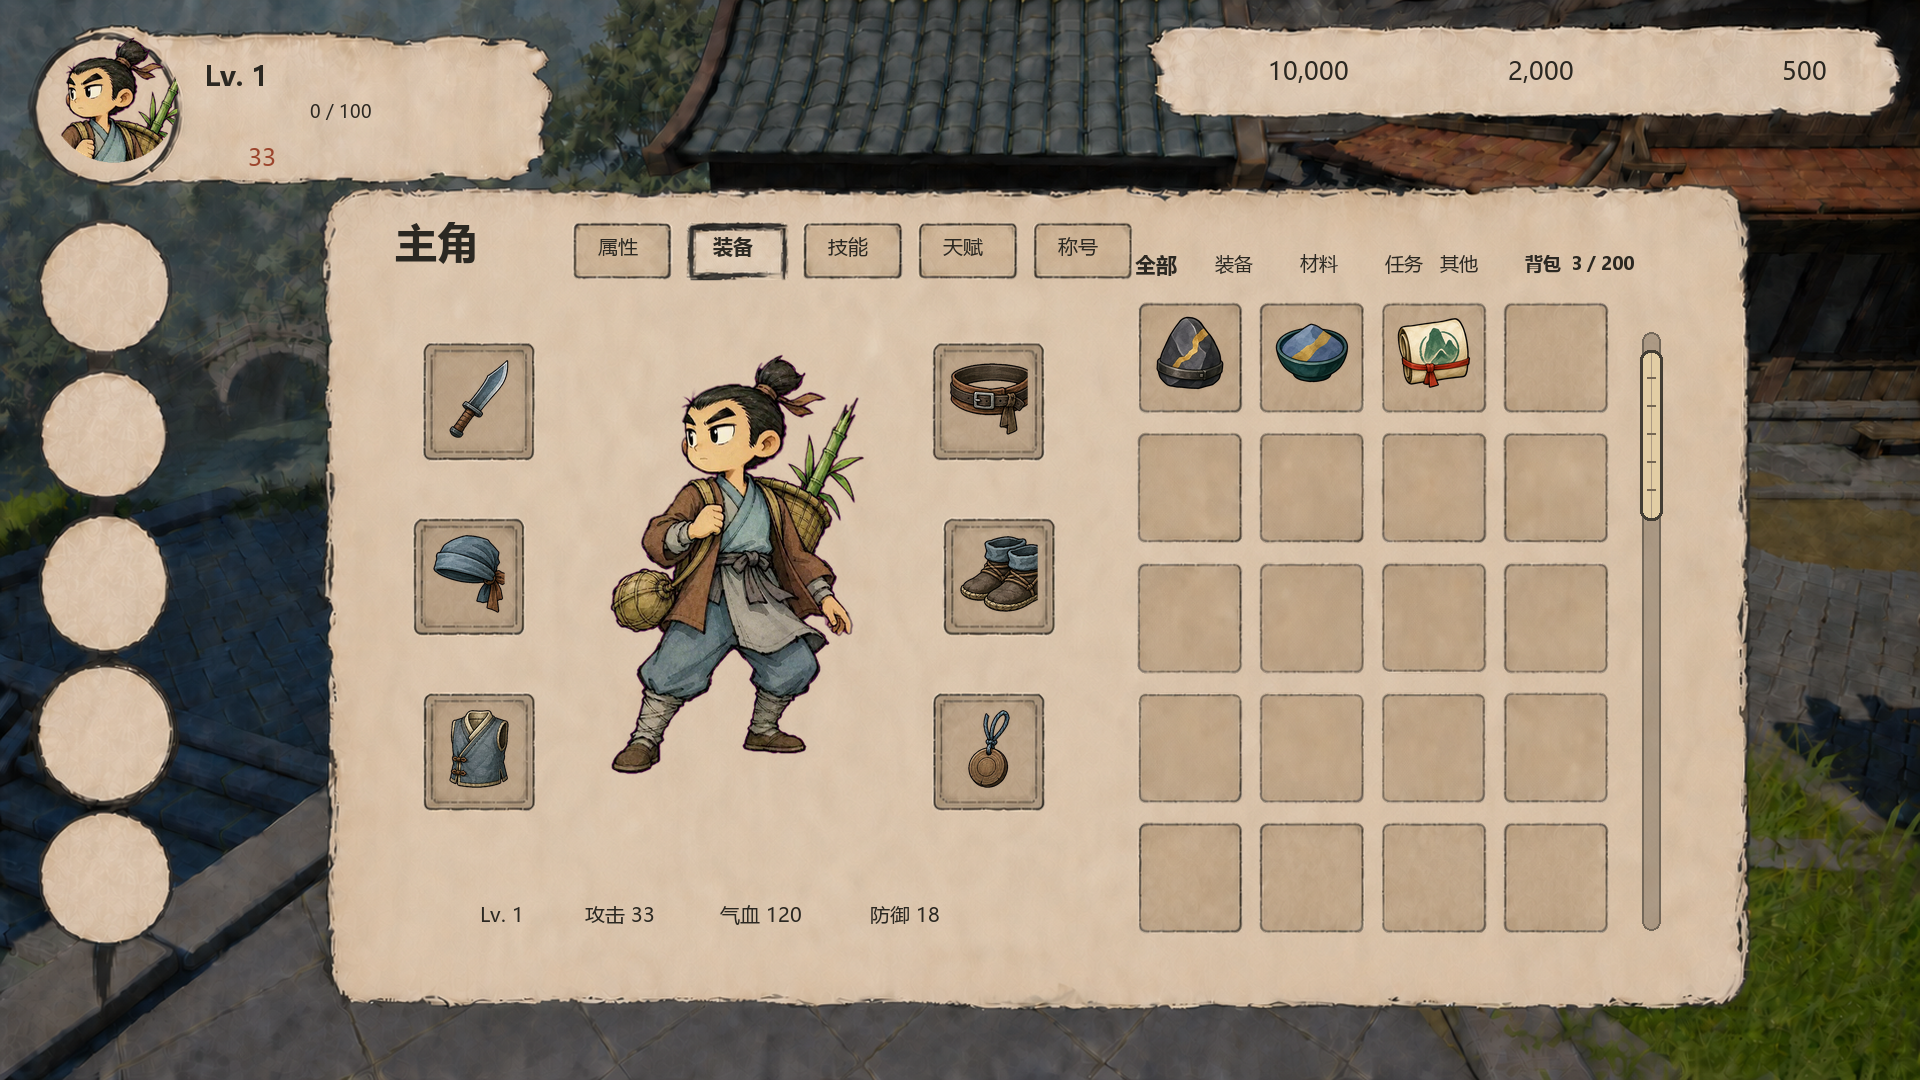
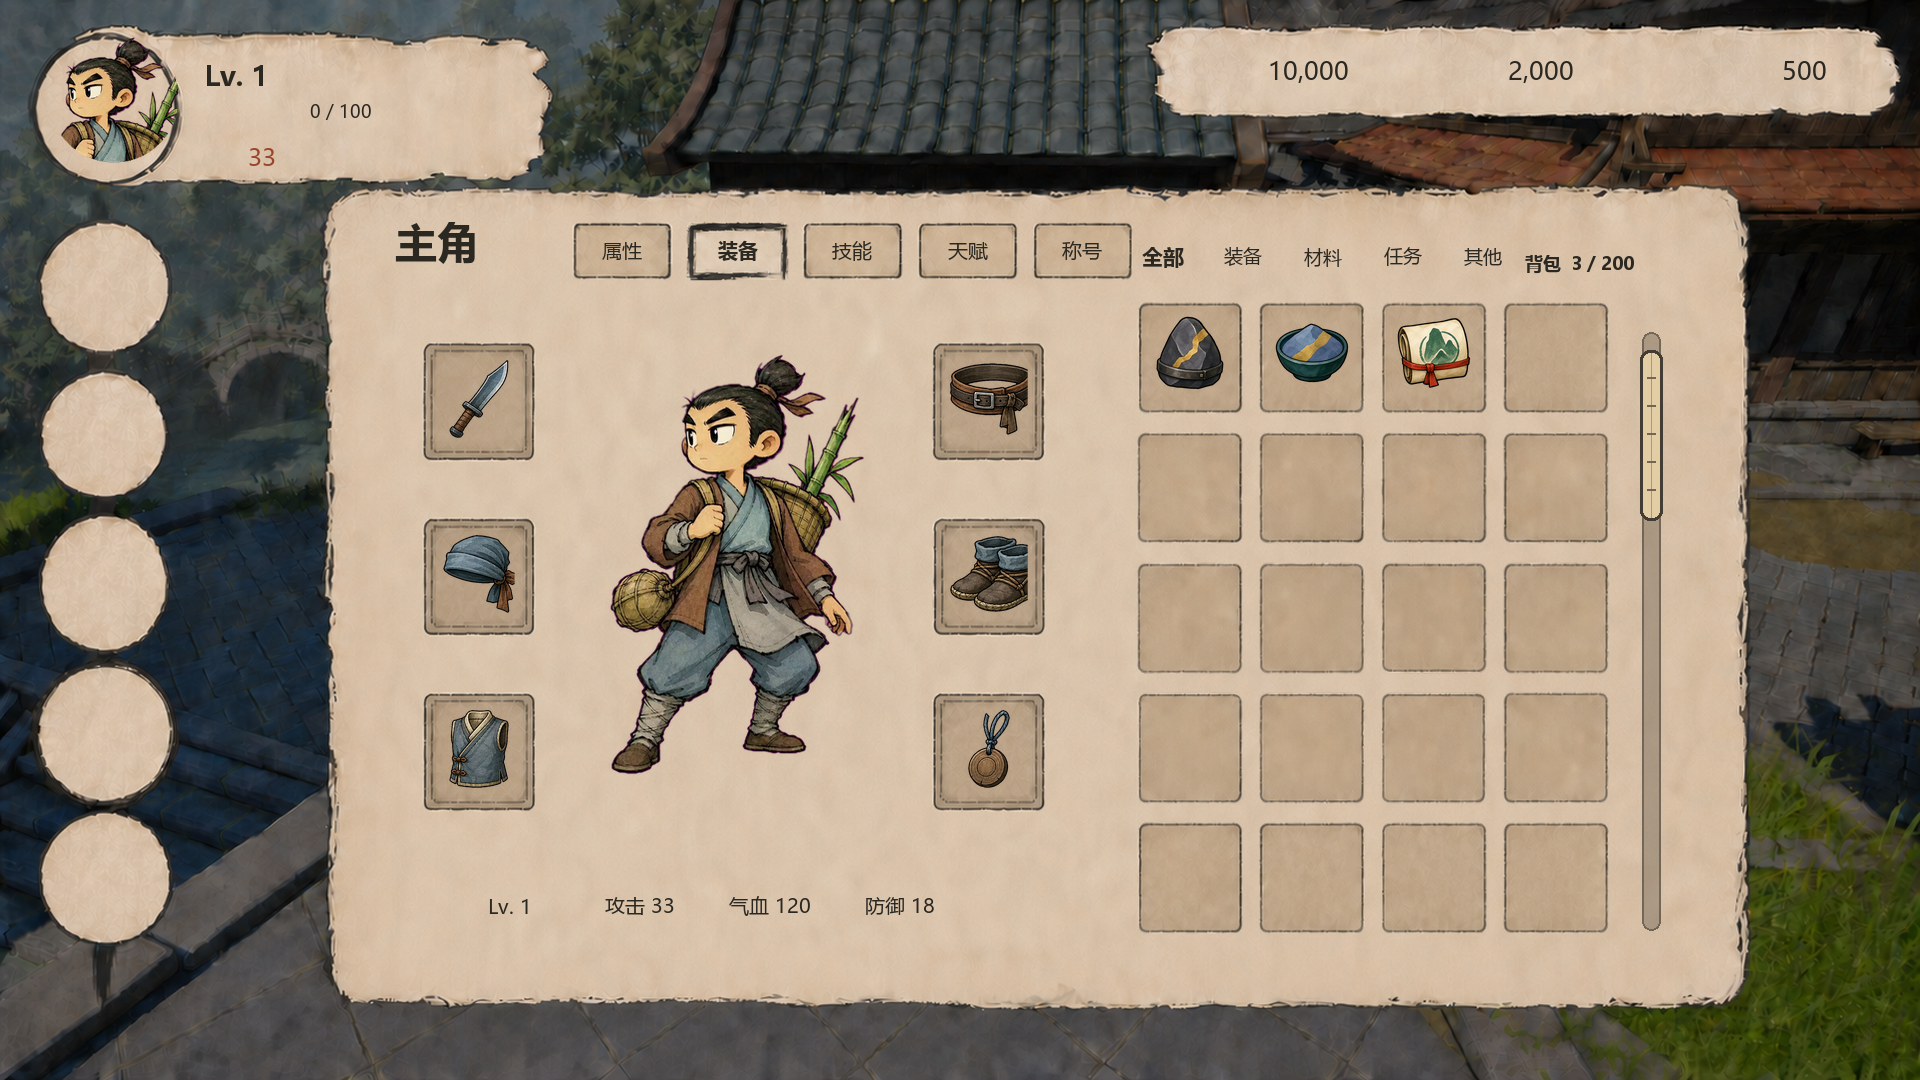
fix: align Master UI slots and labels

diff --git a/scripts/gamexxk_ui_master_pages.py b/scripts/gamexxk_ui_master_pages.py
@@ -226,6 +226,26 @@ class PageBuilder:
             }
         )
 
+    def add_centered_text(
+        self,
+        text: str,
+        box: tuple[int, int, int, int],
+        size: int,
+        subgroup: str = "70_RuntimeText",
+        *,
+        bold: bool = False,
+        color: tuple[int, int, int, int] = INK,
+        name: str | None = None,
+    ) -> None:
+        x, y, width, height = box
+        font = _font(size, bold=bold)
+        bounds = ImageDraw.Draw(Image.new("RGBA", (1, 1))).textbbox((0, 0), text, font=font)
+        text_width = bounds[2] - bounds[0]
+        text_height = bounds[3] - bounds[1]
+        draw_x = round(x + (width - text_width) / 2 - bounds[0])
+        draw_y = round(y + (height - text_height) / 2 - bounds[1])
+        self.add_text(text, (draw_x, draw_y), size, subgroup, bold=bold, color=color, name=name)
+
     def add_overlay(self, name: str, image: Image.Image, subgroup: str) -> None:
         overlay_root = self.asset_root / "LayoutAssets"
         overlay_root.mkdir(parents=True, exist_ok=True)
@@ -418,15 +438,15 @@ def _page_backpack_v2(builder: PageBuilder) -> None:
     for index, (label, filename) in enumerate(zip(tab_labels, tab_files)):
         x = 570 + index * 115
         builder.add_image(f"tab_{index + 1}", V2_COMPONENTS / filename, (x, 220, 105, 62), "20_Tabs")
-        builder.add_text(label, (x + 28, 232), 20, bold=index == 1)
+        builder.add_centered_text(label, (x, 220, 105, 62), 20, bold=index == 1)
 
     builder.add_image("hero_idle", HERO, (490, 305, 510, 510), "30_Character", fit_mode="contain_canvas")
     equipment_frames = (
         ("equipment_slot_left_01.png", 420, 340, "starter_weapon.png"),
-        ("equipment_slot_left_02.png", 410, 515, "starter_head.png"),
+        ("equipment_slot_left_02.png", 420, 515, "starter_head.png"),
         ("equipment_slot_left_03.png", 420, 690, "starter_armor.png"),
         ("equipment_slot_right_01.png", 930, 340, "starter_belt.png"),
-        ("equipment_slot_right_02.png", 940, 515, "starter_shoes.png"),
+        ("equipment_slot_right_02.png", 930, 515, "starter_shoes.png"),
         ("equipment_slot_right_03.png", 930, 690, "starter_accessory.png"),
     )
     for index, (frame_name, x, y, icon_name) in enumerate(equipment_frames):
@@ -439,11 +459,9 @@ def _page_backpack_v2(builder: PageBuilder) -> None:
             fit_mode="contain_canvas",
         )
 
-    builder.add_text("全部", (1135, 250), 21, bold=True)
-    builder.add_text("装备", (1215, 250), 19)
-    builder.add_text("材料", (1300, 250), 19)
-    builder.add_text("任务", (1385, 250), 19)
-    builder.add_text("其他", (1440, 250), 19)
+    category_labels = ("全部", "装备", "材料", "任务", "其他")
+    for index, label in enumerate(category_labels):
+        builder.add_centered_text(label, (1128 + index * 80, 232, 70, 50), 21 if index == 0 else 19, bold=index == 0)
     builder.add_text("背包  3 / 200", (1525, 250), 18, bold=True)
 
     slot_files = sorted(V2_COMPONENTS.glob("inventory_slot_*.png"))
@@ -475,10 +493,8 @@ def _page_backpack_v2(builder: PageBuilder) -> None:
                 )
             slot_index += 1
     builder.add_overlay("inventory_scrollbar_right", _draw_backpack_scrollbar_overlay(), "42_InventoryScrollbar")
-    builder.add_text("Lv. 1", (480, 900), 20)
-    builder.add_text("攻击 33", (585, 900), 20)
-    builder.add_text("气血 120", (720, 900), 20)
-    builder.add_text("防御 18", (870, 900), 20)
+    for index, label in enumerate(("Lv. 1", "攻击 33", "气血 120", "防御 18")):
+        builder.add_centered_text(label, (445 + index * 130, 884, 130, 44), 20)
 
 
 def _page_party(builder: PageBuilder, world: Path, *, selected: bool = False) -> None:
@@ -601,8 +617,8 @@ def _page_meta_shop_v2(builder: PageBuilder) -> None:
             "22_ProductIcons",
             fit_mode="contain_canvas",
         )
-        builder.add_text(label, (x + 12, y + 184), 20, bold=index == 0)
-        builder.add_text(f"{price} 金", (x + 47, y + 222), 18, color=MUTED)
+        builder.add_centered_text(label, (x - 10, y + 178, 190, 34), 20, bold=index == 0)
+        builder.add_centered_text(f"{price} 金", (x, y + 216, 170, 32), 18, color=MUTED)
 
     builder.add_image(
         "selected_product_detail_slot",
@@ -617,7 +633,7 @@ def _page_meta_shop_v2(builder: PageBuilder) -> None:
         "31_ProductDetailIcon",
         fit_mode="contain_canvas",
     )
-    builder.add_text("破军装备包", (1340, 585), 30, bold=True)
+    builder.add_centered_text("破军装备包", (1305, 575, 350, 44), 30, bold=True)
     builder.add_text("随机获得破军套装的一个部位", (1305, 640), 19)
     builder.add_text("装备等级：当前主角等级", (1305, 680), 19)
     builder.add_text("普通 70%  ·  稀有 25%  ·  珍稀 5%", (1305, 720), 17)
@@ -629,7 +645,7 @@ def _page_meta_shop_v2(builder: PageBuilder) -> None:
         (1380, 870, 210, 72),
         "40_PurchaseAction",
     )
-    builder.add_text("购买  100", (1422, 888), 23, bold=True)
+    builder.add_centered_text("购买  100", (1380, 870, 210, 72), 23, bold=True)
     builder.add_text("点击后再次确认", (1412, 955), 16, color=MUTED)
 
 

diff --git a/docs/superpowers/plans/2026-08-05-master-ui-alignment-implementation.md b/docs/superpowers/plans/2026-08-05-master-ui-alignment-implementation.md
@@ -23,7 +23,7 @@
 
 This is pure Master UI visual work. Per the user's standing direction, do not use TDD; validate only after generation.
 
-- [ ] **Step 1: Add measured centered-text placement**
+- [x] **Step 1: Add measured centered-text placement**
 
 Add a `PageBuilder.add_centered_text` method beside `add_text`. Measure the exact font with `ImageDraw.textbbox`, compute the drawing origin that centers the glyph bounds inside the supplied rectangle, then delegate to `add_text` so the manifest continues to contain editable text:
 
@@ -49,7 +49,7 @@ Add a `PageBuilder.add_centered_text` method beside `add_text`. Measure the exac
         self.add_text(text, (draw_x, draw_y), size, subgroup, bold=bold, color=color, name=name)
 ```
 
-- [ ] **Step 2: Normalize the six backpack equipment slots**
+- [x] **Step 2: Normalize the six backpack equipment slots**
 
 Replace only the four drifting x-coordinates so both columns share exact origins:
 
@@ -66,15 +66,15 @@ Replace only the four drifting x-coordinates so both columns share exact origins
 
 Keep frames `118 × 124` and icons `88 × 88` at `x + 15, y + 15`.
 
-- [ ] **Step 3: Center the approved backpack-page labels**
+- [x] **Step 3: Center the approved backpack-page labels**
 
 Use `add_centered_text` for each tab label within `(x, 220, 105, 62)`. Give the five inventory categories explicit short regions starting at x positions `1128, 1208, 1288, 1368, 1448`, each `70 × 44`, without moving `背包  3 / 200`. Center the four bottom stats in four `130 × 44` regions starting at x `445, 575, 705, 835`.
 
-- [ ] **Step 4: Center the approved shop-page labels**
+- [x] **Step 4: Center the approved shop-page labels**
 
 For each product card, center the product name in `(x - 10, y + 178, 190, 34)` and the price in `(x, y + 216, 170, 32)`. Center `破军装备包` in the detail column rectangle `(1305, 575, 350, 44)` and center `购买  100` within the button rectangle `(1380, 870, 210, 72)`. Leave page titles, subtitles, product descriptions, probability copy, permanent gold, and confirmation hint left-aligned.
 
-- [ ] **Step 5: Rebuild the Master outputs**
+- [x] **Step 5: Rebuild the Master outputs**
 
 Run:
 
@@ -85,7 +85,7 @@ python scripts/build_gamexxk_ui_master.py
 
 Expected: syntax exit code `0`; build returns `ok: true`, 18 pages, and V2 pages `00_公共组件`, `03_主角背包`, `07_商店交易`.
 
-- [ ] **Step 6: Run post-generation structural checks**
+- [x] **Step 6: Run post-generation structural checks**
 
 Read `master-manifest.json` and assert:
 
@@ -97,11 +97,11 @@ Read `master-manifest.json` and assert:
 - the shop still has exactly seven product icons and no legacy `草药包` or `出售` text;
 - `git diff --check` exits `0`.
 
-- [ ] **Step 7: Review and record the visual result**
+- [x] **Step 7: Review and record the visual result**
 
 Inspect `03_主角背包.png`, `07_商店交易.png`, and the contact sheet at original resolution. Confirm two exact equipment columns, three equal rows, centered control labels, no overlap, and unchanged titles/descriptive alignment. Append the two preview hashes and review result to `docs/production/2026-08-04-gamexxk-ui-calibration-v2-progress.md`.
 
-- [ ] **Step 8: Commit the visual adjustment**
+- [x] **Step 8: Commit the visual adjustment**
 
 Stage only the page generator, the two priority previews, regenerated contact sheet/manifest, this plan, and the production note:
 

diff --git a/docs/production/2026-08-04-gamexxk-ui-calibration-v2-progress.md b/docs/production/2026-08-04-gamexxk-ui-calibration-v2-progress.md
@@ -78,3 +78,18 @@ python scripts/build_gamexxk_ui_master.py
[3 lines of base64/hex data omitted]
+
+### Master UI 对齐微调
+
+2026-08-05 后续对齐轮次将 `03_主角背包` 的六个装备槽规范为两列三行：左列 `x=420`、右列 `x=930`，三行 `y=340/515/690`；全部框体保持 `118 × 124`，图标保持 `88 × 88` 和 15 像素内缩。
+
+两张重点页的控件型短文本改为按 Microsoft YaHei 实际字形边界居中：背包页 5 个页签、5 个分类和 4 个属性；商店页 7 个商品名、7 个价格、详情标题与购买按钮。页面标题、说明、概率、永久金币和容量文字继续左对齐。
+
+后生成结构检查结果：装备框 6、装备图标 6、居中短文本 30、背包格 20、右侧滑条 alpha 范围 `(1640, 332, 1663, 931)`、商店商品 7；两张重点预览均为 `1920 × 1080`。原分辨率复核确认两列共线、三行等距、短文本无碰撞，说明文本层级未改变。
+
+| 对齐后输出 | SHA-256 |
+|---|---|
[4 lines of base64/hex data omitted]
